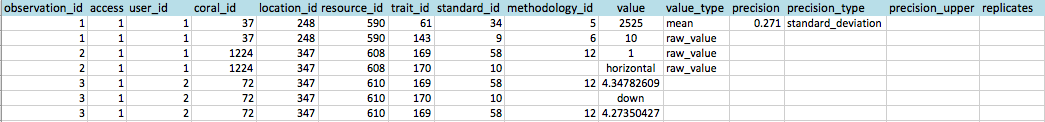
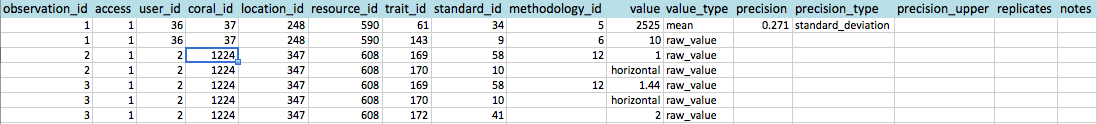
notes added to observation upload criteria

diff --git a/app/models/import.rb b/app/models/import.rb
@@ -22,7 +22,7 @@ class Import
   
   $email_list = []
   $ignore_row = []
-  
+  $new_observation_csv_headers = ["observation_id",  "access",  "user_id", "coral_id"  ,"location_id", "resource_id", "trait_id",  "standard_id",  "methodology_id" ,"value" ,"value_type",  "precision" ,"precision_type" , "precision_upper" ,"replicates", "notes"]
   attr_accessor :file, :model_name
 
   def initialize(attributes = {})
@@ -37,16 +37,6 @@ class Import
   """
   def set_model_name(model_name)
     self.model_name = model_name
-  end
-
-  # If there's any error in observation or measurement, then rollback the saved observations
-  def rollback
-    puts 'rolling back'
-    puts $observation_id_map
-    $observation_id_map.keys().each do |k|
-      obs = Observation.find($observation_id_map[k])
-      obs.destroy!
-    end
   end
 
   def check_add_errors(items)
@@ -69,36 +59,53 @@ class Import
     return flag
   end
   
+  # If there's any error in observation or measurement, then rollback the saved observations
+  def rollback
+    puts 'rolling back'
+    puts $observation_id_map
+    $observation_id_map.keys().each do |k|
+      obs = Observation.find($observation_id_map[k])
+      obs.destroy!
+    end
+  end
+
   # Save the unique observation from group of observations in csv
   def save_unique_observations
     
     spreadsheet = open_spreadsheet
     header = spreadsheet.row(1)
     $observation_id_map = {}
+    
+    if header == $new_observation_csv_headers
+      (2..spreadsheet.last_row).map do |i|
 
-    (2..spreadsheet.last_row).map do |i|
-
-      row = Hash[[header, spreadsheet.row(i)].transpose]
-      puts 'row: ', row
-      if not $observation_id_map.keys().include? row["observation_id"] and row["observation_id"].present?
-        o = Observation.new(:user_id => row["user_id"], :location_id => row["location_id"], :coral_id => row["coral_id"], :resource_id => row["resource_id"], :approval_status => "pending")
-        measurement_row = {"user_id" => row["user_id"],   "trait_id" => row["trait_id"], "standard_id" => row["standard_id"],  "value" => row["value"], "value_type" => row["value_type"], "precision" => row["precision"], "precision_type" => row["precision_type"], "precision_upper" => row["precision_upper"], "replicates" => row["replicates"], "methodology_id" => row["methodology_id"],  "approval_status" => "pending"}
-        m = Measurement.new
-        m.attributes = measurement_row.to_hash
-        puts "measurement: ", m
-        o.measurements << m
-        
-        begin
-          puts 'saving unique observations'
-          o.save!
-          $observation_id_map[row["observation_id"]] = o.id
-          $ignore_row.append(i)
-        rescue => e
-          puts 'error saving unique observations'
-          errors.add :base, e
-          return false
+        row = Hash[[header, spreadsheet.row(i)].transpose]
+        puts 'row: ', row
+        if not $observation_id_map.keys().include? row["observation_id"] and row["observation_id"].present?
+          o = Observation.new(:user_id => row["user_id"], :location_id => row["location_id"], :coral_id => row["coral_id"], :resource_id => row["resource_id"], :approval_status => "pending")
+          measurement_row = {"user_id" => row["user_id"], "trait_id" => row["trait_id"], "standard_id" => row["standard_id"],  "value" => row["value"], "value_type" => row["value_type"], "precision" => row["precision"], "precision_type" => row["precision_type"], "precision_upper" => row["precision_upper"], "replicates" => row["replicates"], "methodology_id" => row["methodology_id"], "notes" => row["notes"], "approval_status" => "pending"}
+          m = Measurement.new
+          
+          
+          begin
+            puts 'saving unique observations'
+            m.attributes = measurement_row.to_hash
+            puts "measurement: ", m
+            o.measurements << m
+            o.save!
+            $observation_id_map[row["observation_id"]] = o.id
+            $ignore_row.append(i)
+          rescue => e
+            puts 'error saving unique observations'
+            errors.add :base, e
+            return false
+          end
         end
       end
+    else
+      errors.add :base, "The column headers do not match..."
+      return false
+  
     end
   end
 
@@ -122,7 +129,7 @@ class Import
     
     # Check for any errors in imported observations
     any_error = check_add_errors(imp_items)
-    if any_error
+    if not any_error
       puts "no error in imported_items"
     end
     # If there's any error, dont override its value
@@ -174,11 +181,11 @@ class Import
 
     spreadsheet = open_spreadsheet
     header = spreadsheet.row(1)
-    observation_csv_headers = ["observation_id", "access", "enterer", "coral", "location_name", "latitude", "longitude", "resource_id", "measurement_id", "trait_name", "standard_unit", "value", "value_type", "precision", "precision_type", "precision_upper", "replicates"]
-    new_observation_csv_headers = ["observation_id",  "access",  "user_id", "coral_id"  ,"location_id", "resource_id", "trait_id",  "standard_id",  "methodology_id" ,"value" ,"value_type",  "precision" ,"precision_type" , "precision_upper" ,"replicates"]
+    # observation_csv_headers = ["observation_id", "access", "enterer", "coral", "location_name", "latitude", "longitude", "resource_id", "measurement_id", "trait_name", "standard_unit", "value", "value_type", "precision", "precision_type", "precision_upper", "replicates"]
+    
     puts 'header: ', header
     
-    if header == new_observation_csv_headers
+    if header == $new_observation_csv_headers
       print 'uploading observations'
       # Rename some headers to correspond the database fields
       header[header.index("observation_id")] = "id"
@@ -232,7 +239,7 @@ class Import
         # new_observation_csv_headears = ["observation_id",  "access",  "user_id", "coral_id"  ,"location_id", "resource_id", "trait_id",  "standard_id",  "method_id" ,"value" ,"value_type",  "precision" ,"precision_type" , "precision_upper" ,"replicates"]
         # Create the actual rows to be sent into the database for observation and measurements
         observation_row = {"id" => $observation_id_map[row["id"]], "user_id" => row["user_id"], "location_id" => location_id, "coral_id" => coral_id, "resource_id" => row["resource_id"], "private" => row["private"]}
-        measurement_row = {"user_id" => row["user_id"], "observation_id" => $observation_id_map[row["id"]],  "trait_id" => row["trait_id"], "standard_id" => row["standard_id"],  "value" => row["value"], "value_type" => row["value_type"], "precision" => row["precision"], "precision_type" => row["precision_type"], "precision_upper" => row["precision_upper"], "replicates" => row["replicates"], "methodology_id" => row["methodology_id"],  "approval_status" => "pending"}
+        measurement_row = {"user_id" => row["user_id"], "observation_id" => $observation_id_map[row["id"]],  "trait_id" => row["trait_id"], "standard_id" => row["standard_id"],  "value" => row["value"], "value_type" => row["value_type"], "precision" => row["precision"], "precision_type" => row["precision_type"], "precision_upper" => row["precision_upper"], "replicates" => row["replicates"], "methodology_id" => row["methodology_id"], "notes" => row["notes"],  "approval_status" => "pending"}
         
         puts 'measurement_row: ', measurement_row
         # Additionally check for any mapping errors
@@ -244,6 +251,8 @@ class Import
           observation.errors[:base] << error.message
           false
         end
+
+
         
         #measurement.approval_status = "pending"
         $measurements.append(measurement)
@@ -253,7 +262,7 @@ class Import
         $email_list.append("suren.shopushrestha@mq.edu.au")
         observation
       end
-    else
+    elsif model_name.to_s != 'Observation'
       puts 'uploading non observations'
       (2..spreadsheet.last_row).map do |i|
         row = Hash[[header, spreadsheet.row(i)].transpose]
